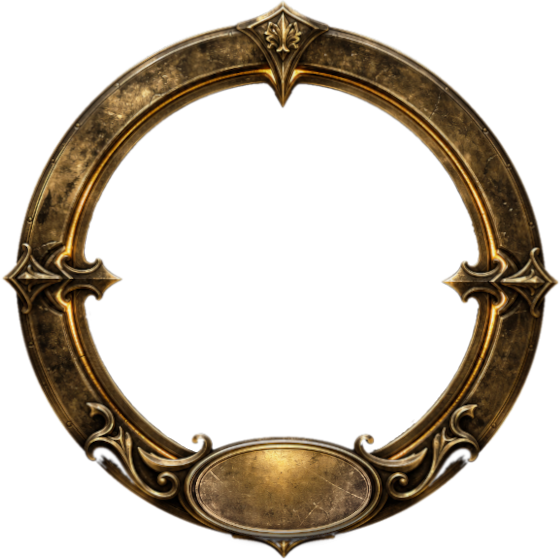
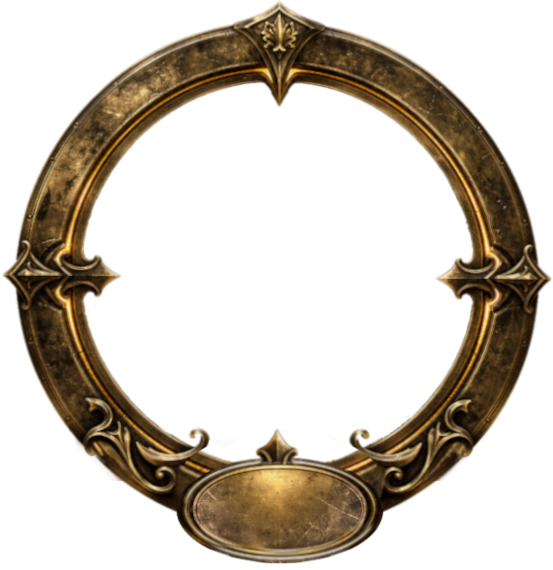
new frame

Changed region(s): [[0.0, 0.0304, 1.0, 1.0]]

diff --git a/app/characters/page.tsx b/app/characters/page.tsx
@@ -66,9 +66,9 @@ export default function Characters() {
               <GlassMagicBulb fillPercent={demoFill} color={demoColor} size={240} showPercent={false} />
               {/* eslint-disable-next-line @next/next/no-img-element */}
               <img src="/images/character/frame-lens-nr-plate.png" alt="" aria-hidden="true"
-                style={{ position: "absolute", inset: 0, width: "100%", height: "100%", pointerEvents: "none" }} />
+                style={{ position: "absolute", inset: 0, width: "100%", height: "100%", pointerEvents: "none", transform: "translateY(7px)" }} />
               {/* percent shown on the frame's name plate */}
-              <div style={{ position: "absolute", left: "3%", right: 0, top: "87.5%", transform: "translateY(-50%)", textAlign: "center", pointerEvents: "none", fontFamily: 'Georgia, "Times New Roman", serif', fontSize: "18px", fontWeight: 600, letterSpacing: "0.06em", color: "#1a1008", textShadow: "0 0 4px rgba(255,240,200,0.9), 0 0 8px rgba(255,240,200,0.6)" }}>
+              <div style={{ position: "absolute", left: "3%", right: 0, top: "92.5%", transform: "translateY(-50%)", textAlign: "center", pointerEvents: "none", fontFamily: 'Georgia, "Times New Roman", serif', fontSize: "18px", fontWeight: 600, letterSpacing: "0.06em", color: "#1a1008", textShadow: "0 0 4px rgba(255,240,200,0.9), 0 0 8px rgba(255,240,200,0.6)" }}>
                 {demoFill}%
               </div>
             </div>